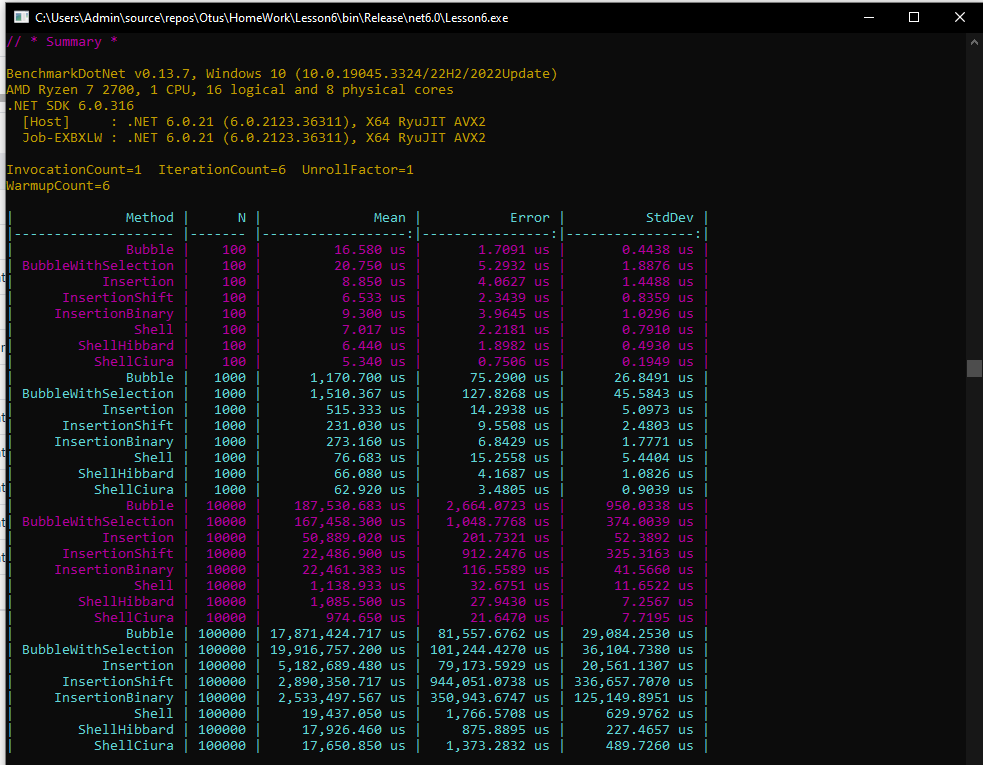
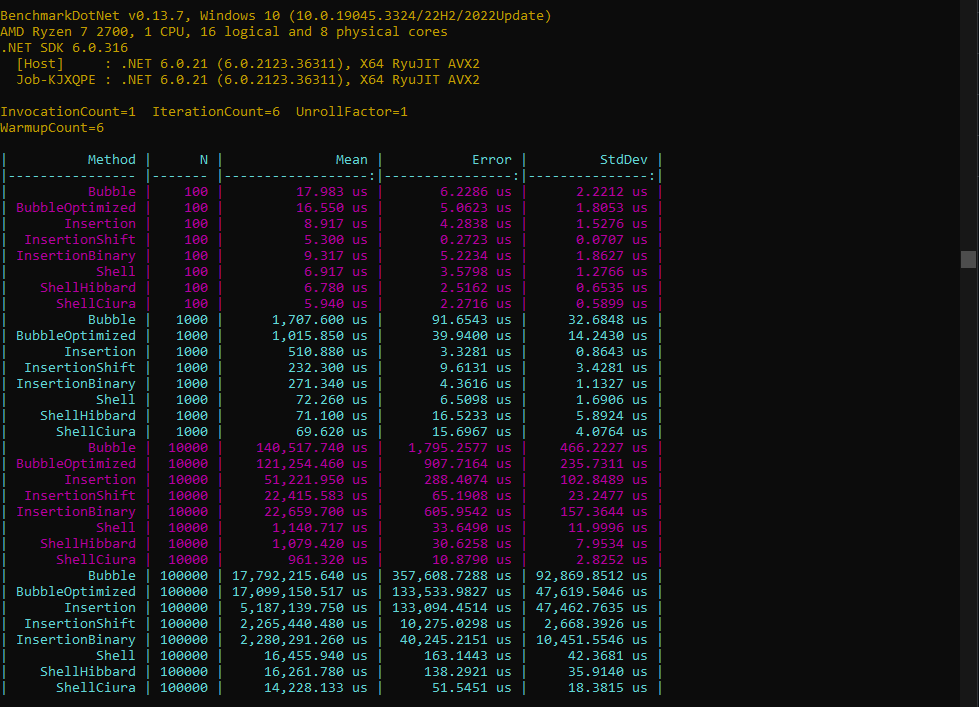
chore: fix bubble optimized sort

Changed region(s): [[0.0, 0.0, 1.0, 1.0], [0.9806, 0.3423, 1.0, 0.4045], [0.9806, 0.4668, 1.0, 0.4979]]

diff --git a/HomeWork/Lesson6/Sortings.cs b/HomeWork/Lesson6/Sortings.cs
@@ -37,28 +37,25 @@ namespace Lesson6
                 }
         }
         /// <summary>
-        /// Сортировка пузырьком с выбором
+        /// Оптимизированная сортировка пузырьком
         /// </summary>
-        public void BubbleWithSelection()
+        public void BubbleOptimized()
         {
+            int lastComparison = _array.Length - 1;
             for (var i = _array.Length - 1; i > 0; i--)
             {
                 bool swapped = false;
-                var max = i;
-                for (var j = 0; j < i; j++)
+                int currentSwap = -1;
+                for (var j = 0; j < lastComparison; j++)
                 {
-                    if (_array[j] > _array[j + 1])
-                    {
-                        (_array[j], _array[j + 1]) = (_array[j + 1], _array[j]);
-                        swapped = true;
-                    }
-
-                    if (_array[j] > _array[max])
-                        max = j;
+                    if (_array[j] <= _array[j + 1]) continue;
+                    (_array[j], _array[j + 1]) = (_array[j + 1], _array[j]);
+                    swapped = true;
+                    currentSwap = j;
                 }
                 // если обменов не было значит массив уже отсортирован
-                if (!swapped) break;
-                if (max != i) (_array[i], _array[max]) = (_array[max], _array[i]);
+                if (!swapped) return;
+                lastComparison = currentSwap;
             }
         }
         /// <summary>

diff --git a/HomeWork/Lesson6/Program.cs b/HomeWork/Lesson6/Program.cs
@@ -15,7 +15,7 @@ string? userChoice = null;
 
 start: Console.WriteLine("Выберите алгоритм или введите x, чтобы выйти: ");
 Console.WriteLine("1. Простая сортировка пузырьком");
-Console.WriteLine("2. Сортировка пузырьком с выбором");
+Console.WriteLine("2. Оптимизированная сортировка пузырьком");
 Console.WriteLine("3. Сортировка вставкой");
 Console.WriteLine("4. Сортировка вставкой со сдвигом");
 Console.WriteLine("5. Сортировка вставкой со бинарном поиском");
@@ -32,7 +32,7 @@ switch (userChoice)
         sortings.Bubble();
         Console.WriteLine(sortings.PrintArray()); break;
     case "2":
-        sortings.BubbleWithSelection();
+        sortings.BubbleOptimized();
         Console.WriteLine(sortings.PrintArray()); break;
     case "3":
         sortings.Insertion(); 

diff --git a/HomeWork/Lesson6/Benchmarks/SortingsBenchmark.cs b/HomeWork/Lesson6/Benchmarks/SortingsBenchmark.cs
@@ -42,11 +42,11 @@ namespace Lesson6.Benchmarks
         }
         
         [Benchmark]
-        public void BubbleWithSelection()
+        public void BubbleOptimized()
         {
             var sortings = new Sortings();
             sortings.SetArray(data);
-            sortings.BubbleWithSelection();
+            sortings.BubbleOptimized();
         } 
         
         [Benchmark]
